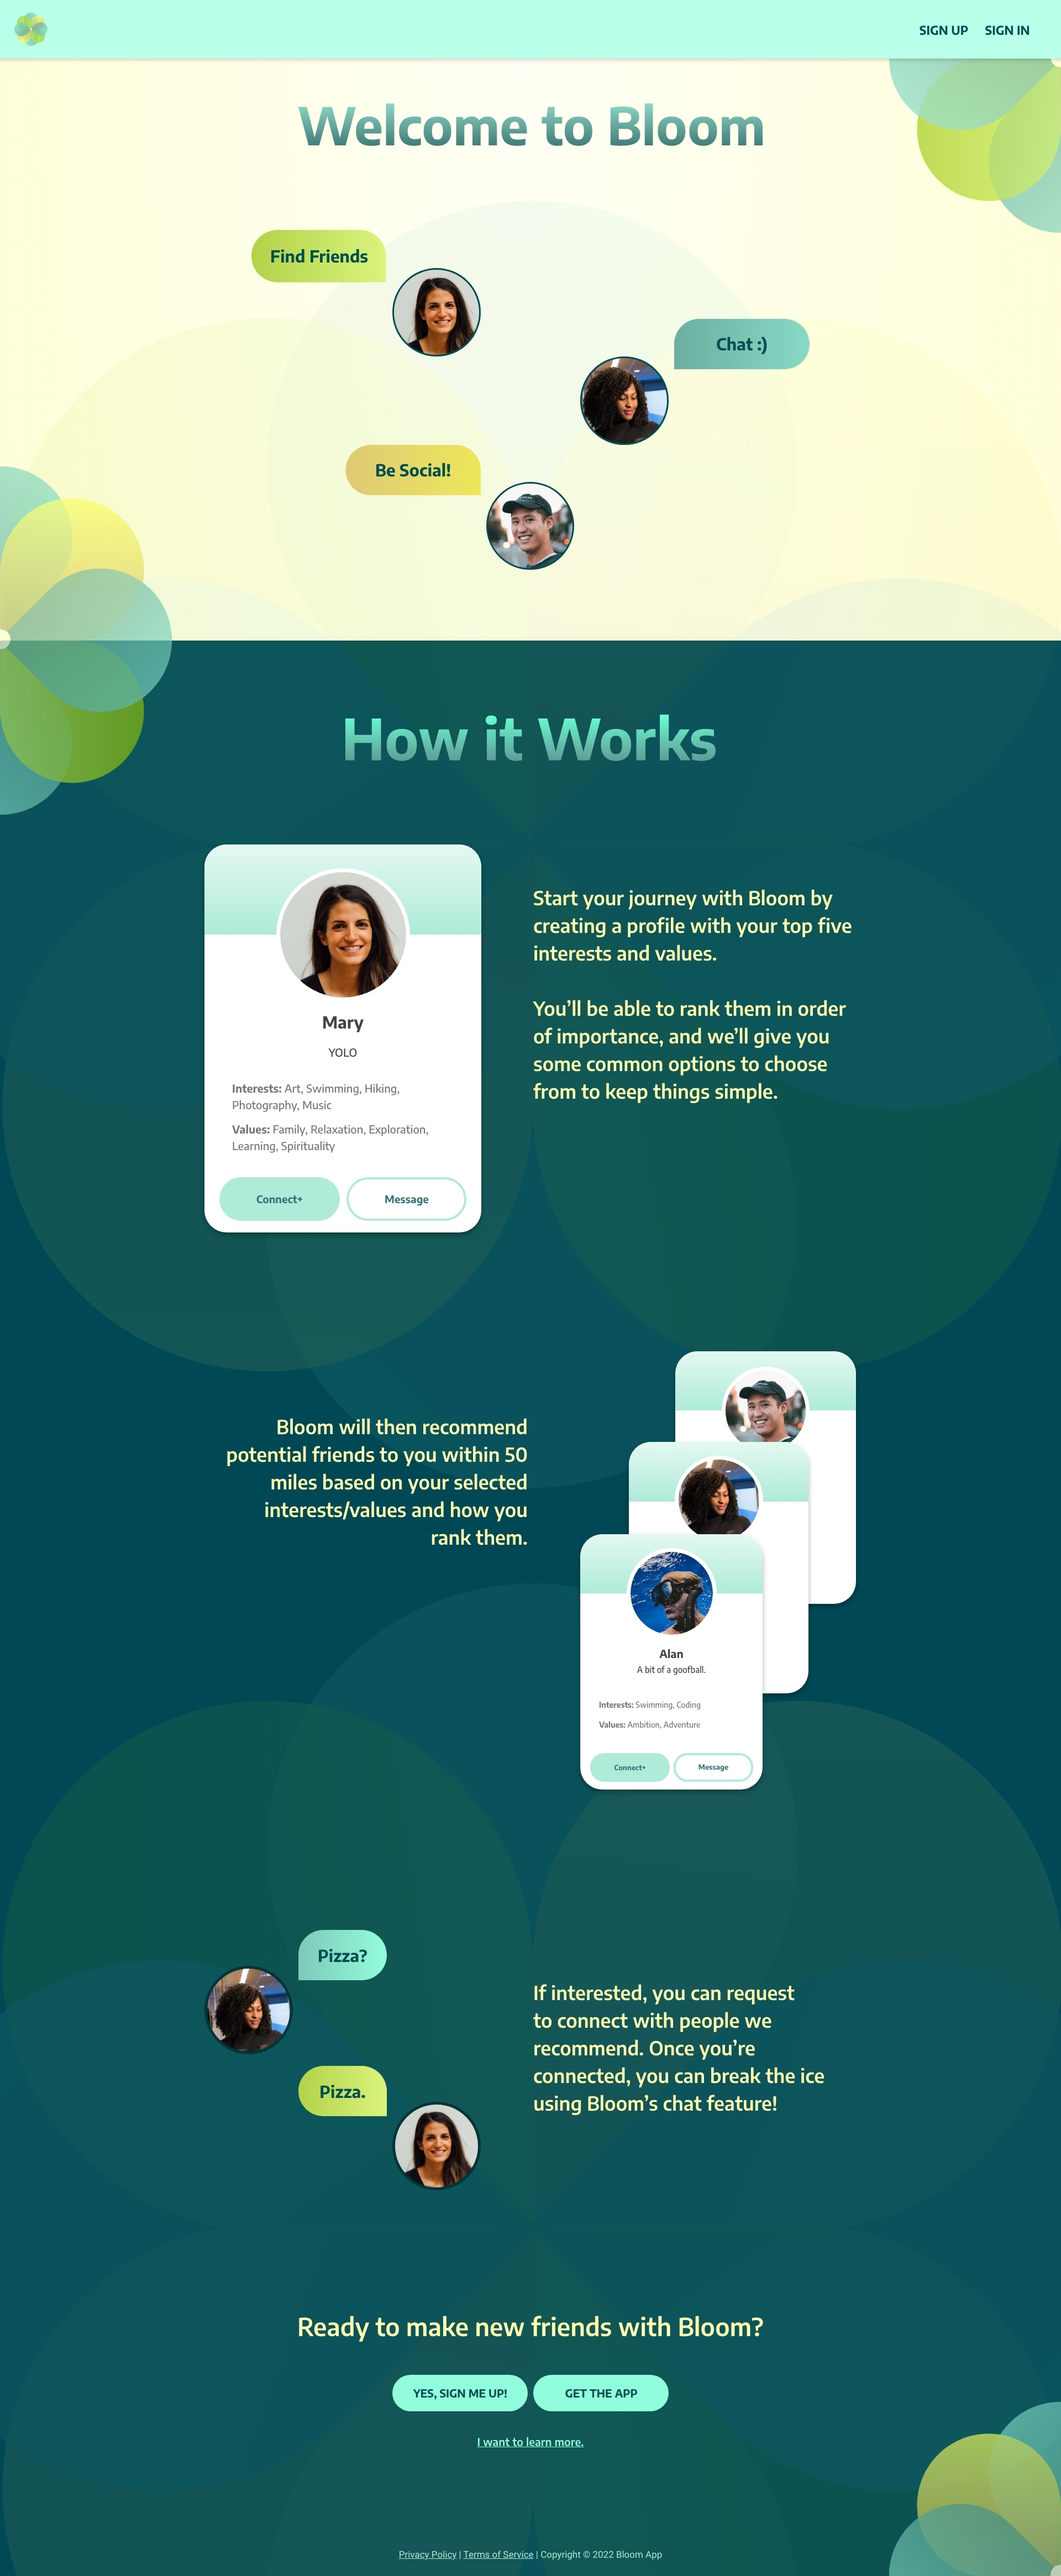
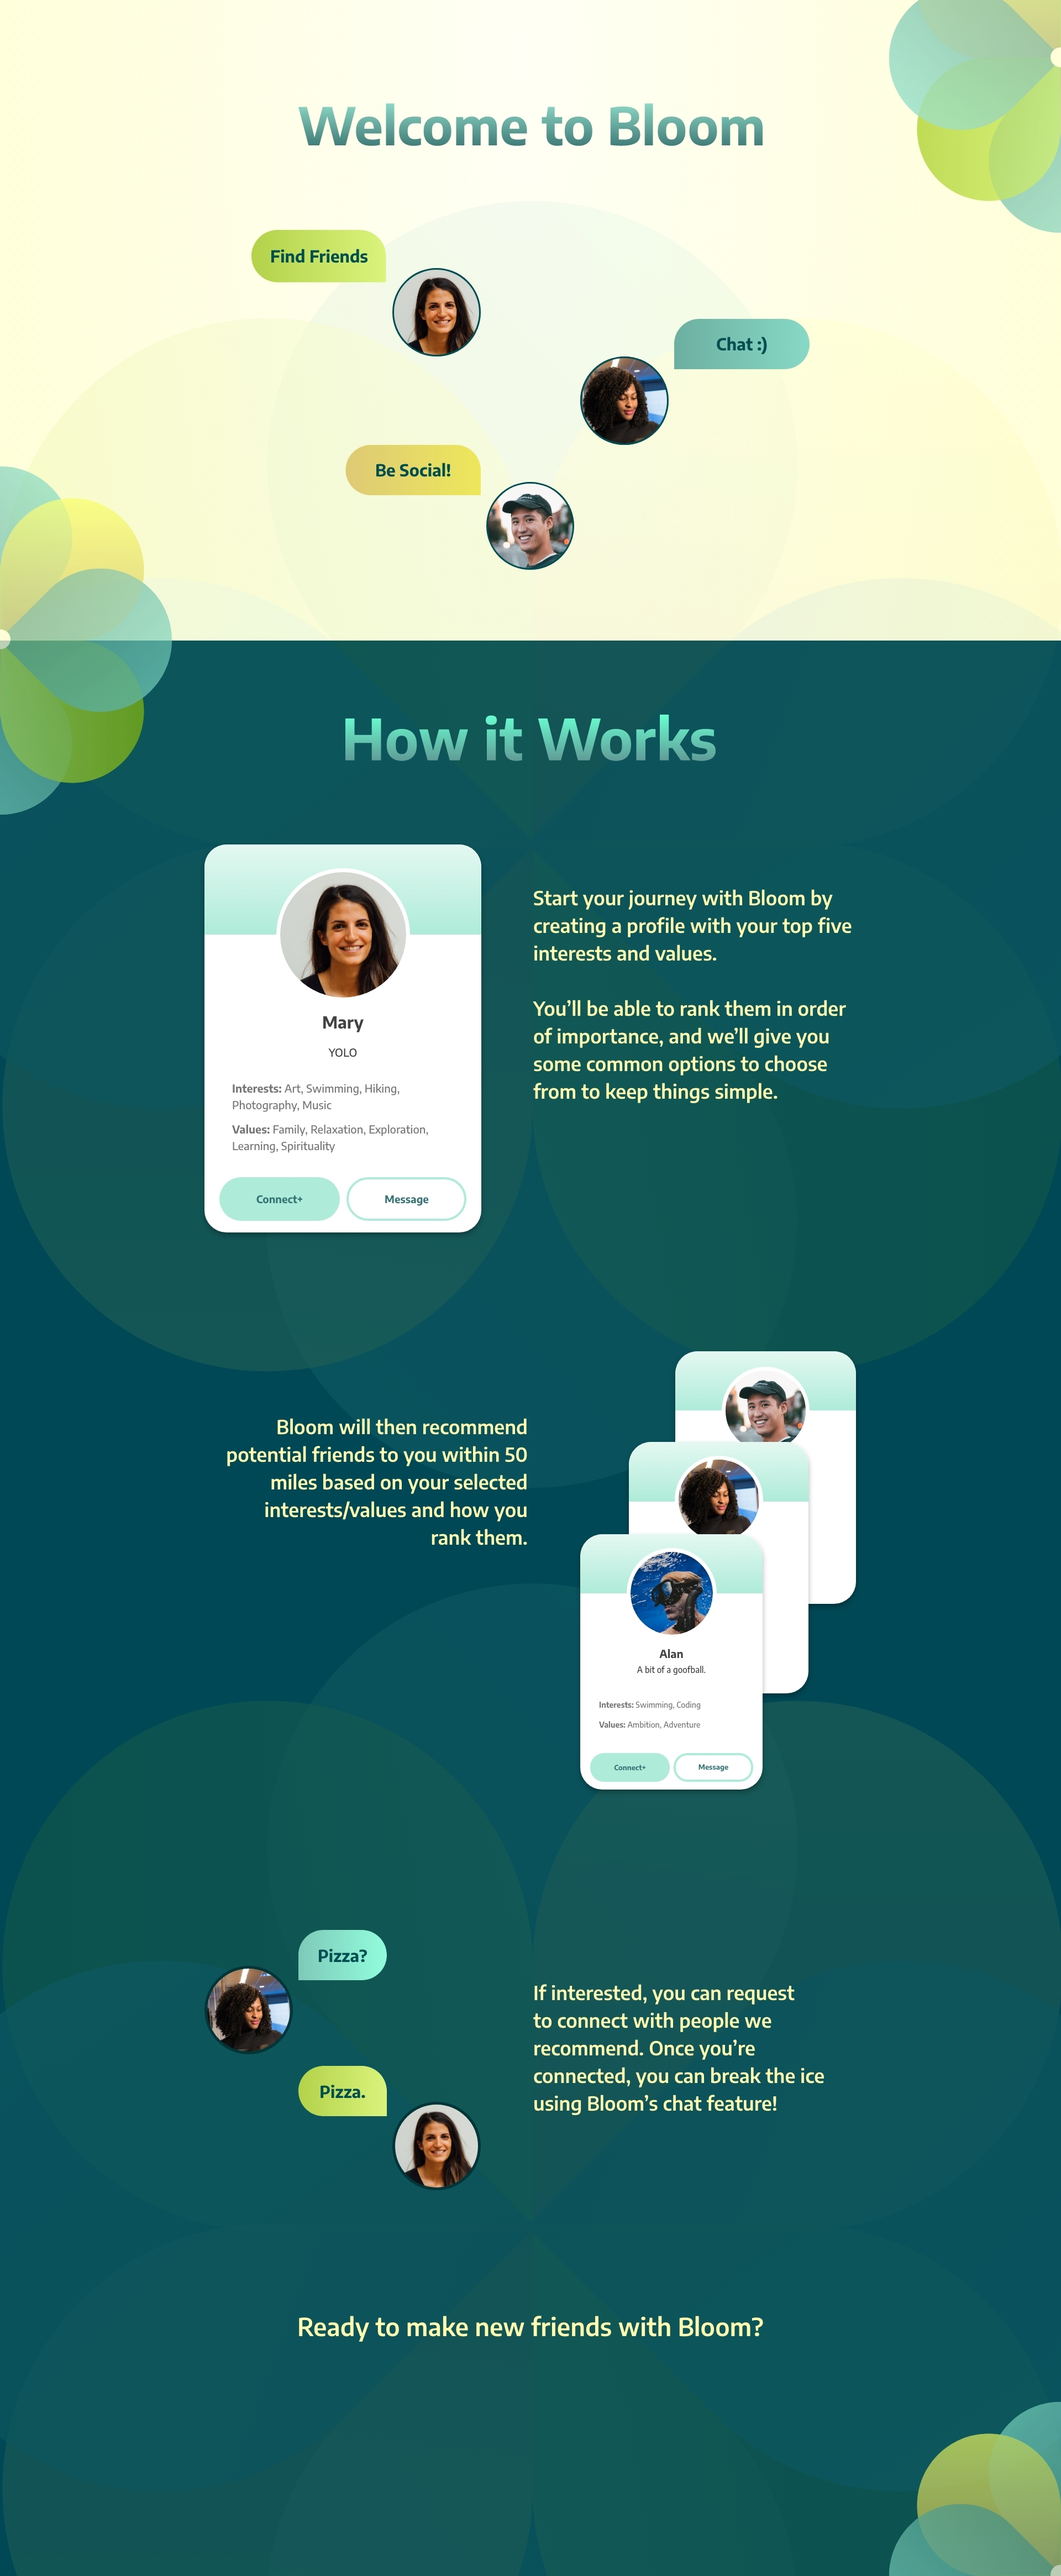
Fixed landing page size

Changed region(s): [[0.0, 0.0, 1.0, 0.0311], [0.375, 0.9022, 0.625, 0.9644]]

diff --git a/public/styles.css b/public/styles.css
@@ -21,7 +21,7 @@ body {
 	display: flex;
 	justify-content: center;
 	align-items: center;
-	height: 4661px;
+	height: 4600px;
 	flex-direction: column;
 	font-size: 16px;
 	font-family: 'Encode Sans', sans-serif;
